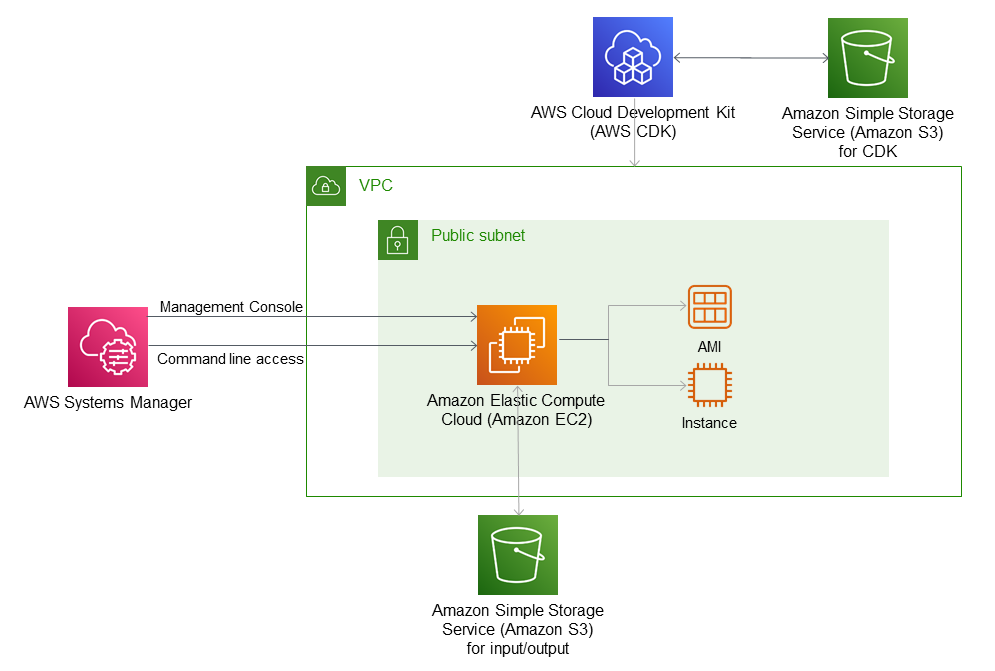
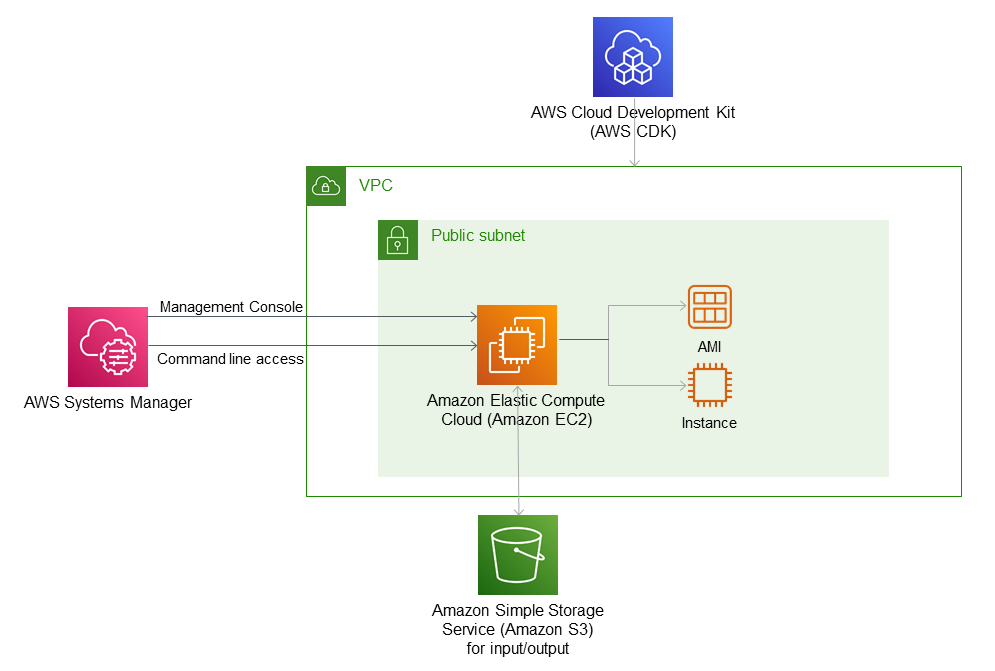
read in user data from local file. Closes #10

Changed region(s): [[0.7789, 0.0298, 0.9658, 0.2385]]

diff --git a/app/ec2_instance_stack.py b/app/ec2_instance_stack.py
@@ -1,8 +1,6 @@
 import os.path
 import os
 
-from aws_cdk.aws_s3_assets import Asset
-
 from aws_cdk import (
     aws_ec2 as ec2,
     aws_iam as iam,
@@ -46,7 +44,7 @@ class EC2InstanceStack(Stack):
                 ]
             )
 
-        # Instance Role and SSM Managed Policy and S3 Managed Policy
+        # Instance Role and SSM Managed Policy
         role = iam.Role(
             self,
             "InstanceSSM",
@@ -60,31 +58,19 @@ class EC2InstanceStack(Stack):
             )
 
         # Instance
+        # Script in user data startup script
+        with open("./configure.sh") as f:
+            user_data = f.read()
+
         instance = ec2.Instance(
             self,
             "Instance",
             instance_type=instance_type,
             machine_image=machine_image,
             vpc=vpc,
-            role=role
+            role=role,
+            user_data=ec2.UserData.custom(user_data)
         )
-
-        # Script in S3 as Asset
-        asset = Asset(
-            self,
-            "Asset",
-            path=os.path.join(dirname, "../configure.sh")
-        )
-        local_path = instance.user_data.add_s3_download_command(
-            bucket=asset.bucket,
-            bucket_key=asset.s3_object_key
-        )
-
-        # Userdata executes script from S3
-        instance.user_data.add_execute_file_command(
-            file_path=local_path
-        )
-        asset.grant_read(instance.role)
 
         # Output data bucket permissions
         output_bucket = s3.Bucket.from_bucket_name(
